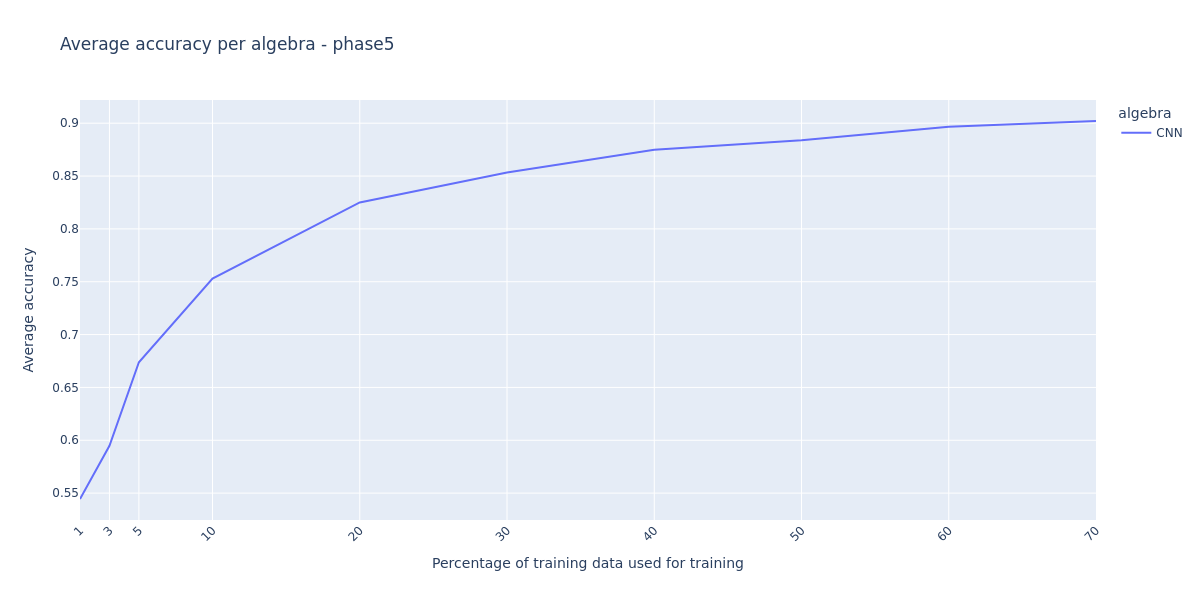
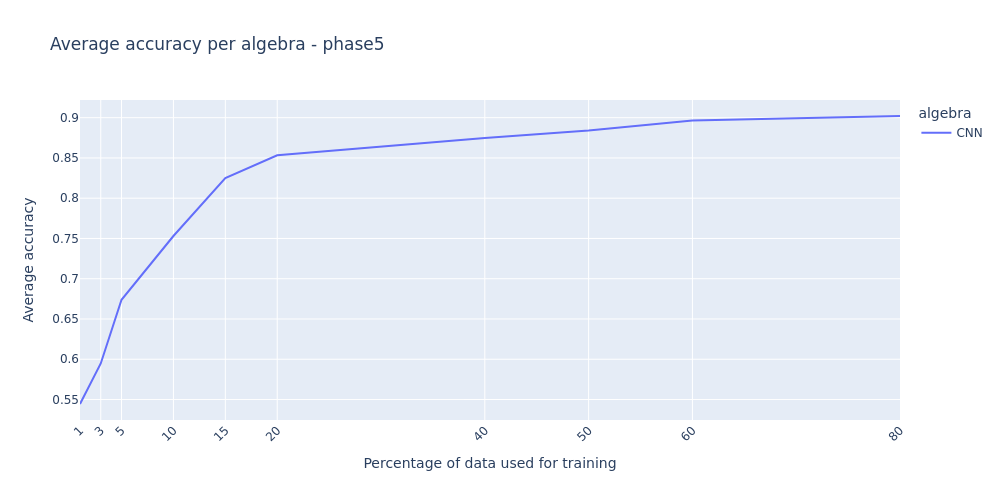
Fixes in plan descriptions and better plots

diff --git a/analysis/MultiRunAnalysis.py b/analysis/MultiRunAnalysis.py
@@ -10,8 +10,8 @@ RUNS_TO_TEST = ["run1", "run2", "run3", "run4", "run5", "run6", "run7", "run8", 
 RUN_LABELS_SPLIT_1234 = [1, 3, 5, 10, 15, 20, 40, 50, 60, 80] # For phase 1, 2, 3, 4
 RUN_LABELS_SPLIT_5_PLUS = [1, 3, 5, 10, 20, 30, 40, 50, 60, 70] # For phase 5-14, 19-20
 RUN_LABELS_SPLIT_16_PLUS = [70] # For phase 16+
-start_phase = 23        # Inclusive
-end_phase = 25          # Inclusive
+start_phase = 1        # Inclusive
+end_phase = 7          # Inclusive
 # ---------------------------------------------------------
 
 def read_phase_data(run_phase, runs, only_hypercomplex=False):
@@ -82,10 +82,10 @@ def get_average_evaluation_grouped_by(data, runs, run_phase, run_labels, group_b
 
     fig = plt_exp.line(df, x="run_name", y=f"average_{evaluation_key}", color=f"{group_by_key}",
                        title=f"Average {evaluation_key} per {group_by_key} - {run_phase}",
-                       labels={"run_name": "Percentage of training data used for training", f"average_{evaluation_key}": f"Average {evaluation_key}",
+                       labels={"run_name": "Percentage of data used for training", f"average_{evaluation_key}": f"Average {evaluation_key}",
                                f"{group_by_key}": f"{group_by_key}"})
 
-    fig.update_layout(xaxis_tickangle=-45, height=600, width=1200, xaxis=dict(tickmode='array',tickvals=run_labels, ticktext=run_labels))
+    fig.update_layout(xaxis_tickangle=-45, height=500, width=1000, xaxis=dict(tickmode='array',tickvals=run_labels, ticktext=run_labels))
     fig.write_image(os.path.join(run_phase, f"avg_{evaluation_key.lower()}_by_{group_by_key}.png"))
 
 def get_average_evaluation_by_model(data, runs, run_phase, run_labels, evaluation_key="accuracy"):
@@ -103,10 +103,10 @@ def get_average_evaluation_by_model(data, runs, run_phase, run_labels, evaluatio
 
     fig = plt_exp.line(df, x="run_name", y=f"average_{evaluation_key}", color="model",
                        title=f"Average {evaluation_key} per model - {run_phase}",
-                       labels={"run_name": "Percentage of training data used for training", f"average_{evaluation_key}": f"Average {evaluation_key}",
+                       labels={"run_name": "Percentage of data used for training", f"average_{evaluation_key}": f"Average {evaluation_key}",
                                "model": "model"})
 
-    fig.update_layout(xaxis_tickangle=-45, height=600, width=1200, xaxis=dict(tickmode='array',tickvals=run_labels, ticktext=run_labels))
+    fig.update_layout(xaxis_tickangle=-45, height=500, width=1000, xaxis=dict(tickmode='array',tickvals=run_labels, ticktext=run_labels))
     fig.write_image(os.path.join(run_phase, f"avg_{evaluation_key.lower()}_by_model.png"))
 
 def get_average_evaluation_between_phases_grouped_by(phases_data, phase_nums, run_labels, runs, group_by_key, evaluation_key="accuracy"):
@@ -124,10 +124,10 @@ def get_average_evaluation_between_phases_grouped_by(phases_data, phase_nums, ru
 
     fig = plt_exp.line(df, x="run_name", y=f"average_{evaluation_key}", color=f"{group_by_key}", line_dash="phase",
                        title=f"Average {evaluation_key} per {group_by_key} (Phase Comparison)",
-                       labels={"run_name": "Percentage of training data used for training", f"average_{evaluation_key}": f"Average {evaluation_key}",
+                       labels={"run_name": "Percentage of data used for training", f"average_{evaluation_key}": f"Average {evaluation_key}",
                                f"{group_by_key}": f"{group_by_key}", "phase": "Phase"})
 
-    fig.update_layout(xaxis_tickangle=-45, height=600, width=1200, xaxis=dict(tickmode='array',tickvals=run_labels, ticktext=run_labels))
+    fig.update_layout(xaxis_tickangle=-45, height=500, width=1000, xaxis=dict(tickmode='array',tickvals=run_labels, ticktext=run_labels))
     fig.write_image(os.path.join("between_phases_results", f"phase{'_'.join(map(str, phase_nums))}_avg_{evaluation_key.lower()}_by_{group_by_key}_comparison.png"))
 
 def plot_stacked_average_bar_for_phase(data, phase, evaluation_key):
@@ -225,20 +225,27 @@ phases_to_compare = []
 
 for phase in [f"phase{i}" for i in range(start_phase, end_phase + 1)]:
     phase_data = read_phase_data(phase, RUNS_TO_TEST, only_hypercomplex=False)
-    plot_multirun_phase_results(phase_data, phase, RUN_LABELS_SPLIT_5_PLUS, "accuracy")
+    plot_multirun_phase_results(phase_data, phase, RUN_LABELS_SPLIT_1234, "accuracy")
     # plot_multirun_phase_results(phase_data, phase, RUN_LABELS_SPLIT_5_PLUS, "F1-Score")
     phases_to_compare.append(phase_data)
 
-#
+
+phase1_data = read_phase_data("phase1", RUNS_TO_TEST, only_hypercomplex=False)
+phase2_data = read_phase_data("phase2", RUNS_TO_TEST, only_hypercomplex=False)
+phase3_data = read_phase_data("phase3", RUNS_TO_TEST, only_hypercomplex=False)
+phase4_data = read_phase_data("phase4", RUNS_TO_TEST, only_hypercomplex=False)
+phase5_data = read_phase_data("phase5", RUNS_TO_TEST, only_hypercomplex=False)
+phase6_data = read_phase_data("phase6", RUNS_TO_TEST, only_hypercomplex=False)
+
 # # ------------------- Phase 1 vs Phase 2 -------------------
-# get_average_evaluation_between_phases_grouped_by([phase1_data, phase2_data], (1, 2), RUN_LABELS_SPLIT_1234,  RUNS_TO_TEST, "color_space", "accuracy")
+get_average_evaluation_between_phases_grouped_by([phase1_data, phase2_data], (1, 2), RUN_LABELS_SPLIT_1234,  RUNS_TO_TEST, "color_space", "accuracy")
 # get_average_evaluation_between_phases_grouped_by([phase1_data, phase2_data], (1, 2), RUN_LABELS_SPLIT_1234,  RUNS_TO_TEST, "color_space", "F1-Score")
 #
 # # ------------------- Phase 3 vs Phase 4 -------------------
-# get_average_evaluation_between_phases_grouped_by([phase3_data, phase4_data], (3, 4), RUN_LABELS_SPLIT_1234,  RUNS_TO_TEST, "color_space", "accuracy")
+get_average_evaluation_between_phases_grouped_by([phase3_data, phase4_data], (3, 4), RUN_LABELS_SPLIT_1234,  RUNS_TO_TEST, "color_space", "accuracy")
 # get_average_evaluation_between_phases_grouped_by([phase3_data, phase4_data], (3, 4), RUN_LABELS_SPLIT_1234,  RUNS_TO_TEST, "color_space", "F1-Score")
 #
 # # ------------------- Phase 5 vs Phase 6 -------------------
-# get_average_evaluation_between_phases_grouped_by([phase5_data, phase6_data], (5, 6), RUN_LABELS_SPLIT_5_PLUS,  RUNS_TO_TEST, "color_space", "accuracy")
+get_average_evaluation_between_phases_grouped_by([phase5_data, phase6_data], (5, 6), RUN_LABELS_SPLIT_5_PLUS,  RUNS_TO_TEST, "color_space", "accuracy")
 # get_average_evaluation_between_phases_grouped_by([phase5_data, phase6_data], (5, 6), RUN_LABELS_SPLIT_5_PLUS,  RUNS_TO_TEST, "color_space", "F1-Score")
 

diff --git a/phase_plans_and_conclusions/phase4_plan.md b/phase_plans_and_conclusions/phase4_plan.md
@@ -40,10 +40,10 @@ is closely linked to phase 4, where transformations have already been tested.
 #### HSV
 
 - **HCNN**: The HSV channels are transformed into 4 dimensions:
-    - **V**
-    - **exp(S) * cos(θ)**, where θ = H * 2π
-    - **exp(S) * sin(θ)**
-    - **sin(V * π)**
+    - **V** (Value)
+    - **S * cos(θ)** (where θ = H * 2π)
+    - **S * sin(θ)**
+    - **V * cos(θ)**
 
 #### YUV
 

diff --git a/phase_plans_and_conclusions/phase7_plan.md b/phase_plans_and_conclusions/phase7_plan.md
@@ -42,10 +42,10 @@ computational effort needed to train the entire phase.
 #### HSV
 
 - **CNN/HCNN**: The HSV channels are transformed into 4 dimensions:
-    - **V**
-    - **exp(S) * cos(θ)**, where θ = H * 2π
-    - **exp(S) * sin(θ)**
-    - **sin(V * π)**
+    - **V** (Value)
+    - **S * cos(θ)** (where θ = H * 2π)
+    - **S * sin(θ)**
+    - **V * cos(θ)**
 
 #### YUV
 

diff --git a/phase_plans_and_conclusions/phase6_plan.md b/phase_plans_and_conclusions/phase6_plan.md
@@ -40,10 +40,10 @@ computational effort needed to train the entire phase.
 #### HSV
 
 - **CNN**: The HSV channels are transformed into 4 dimensions:
-    - **V**
-    - **exp(S) * cos(θ)**, where θ = H * 2π
-    - **exp(S) * sin(θ)**
-    - **sin(V * π)**
+    - **V** (Value)
+    - **S * cos(θ)** (where θ = H * 2π)
+    - **S * sin(θ)**
+    - **V * cos(θ)**
 
 #### YUV
 
